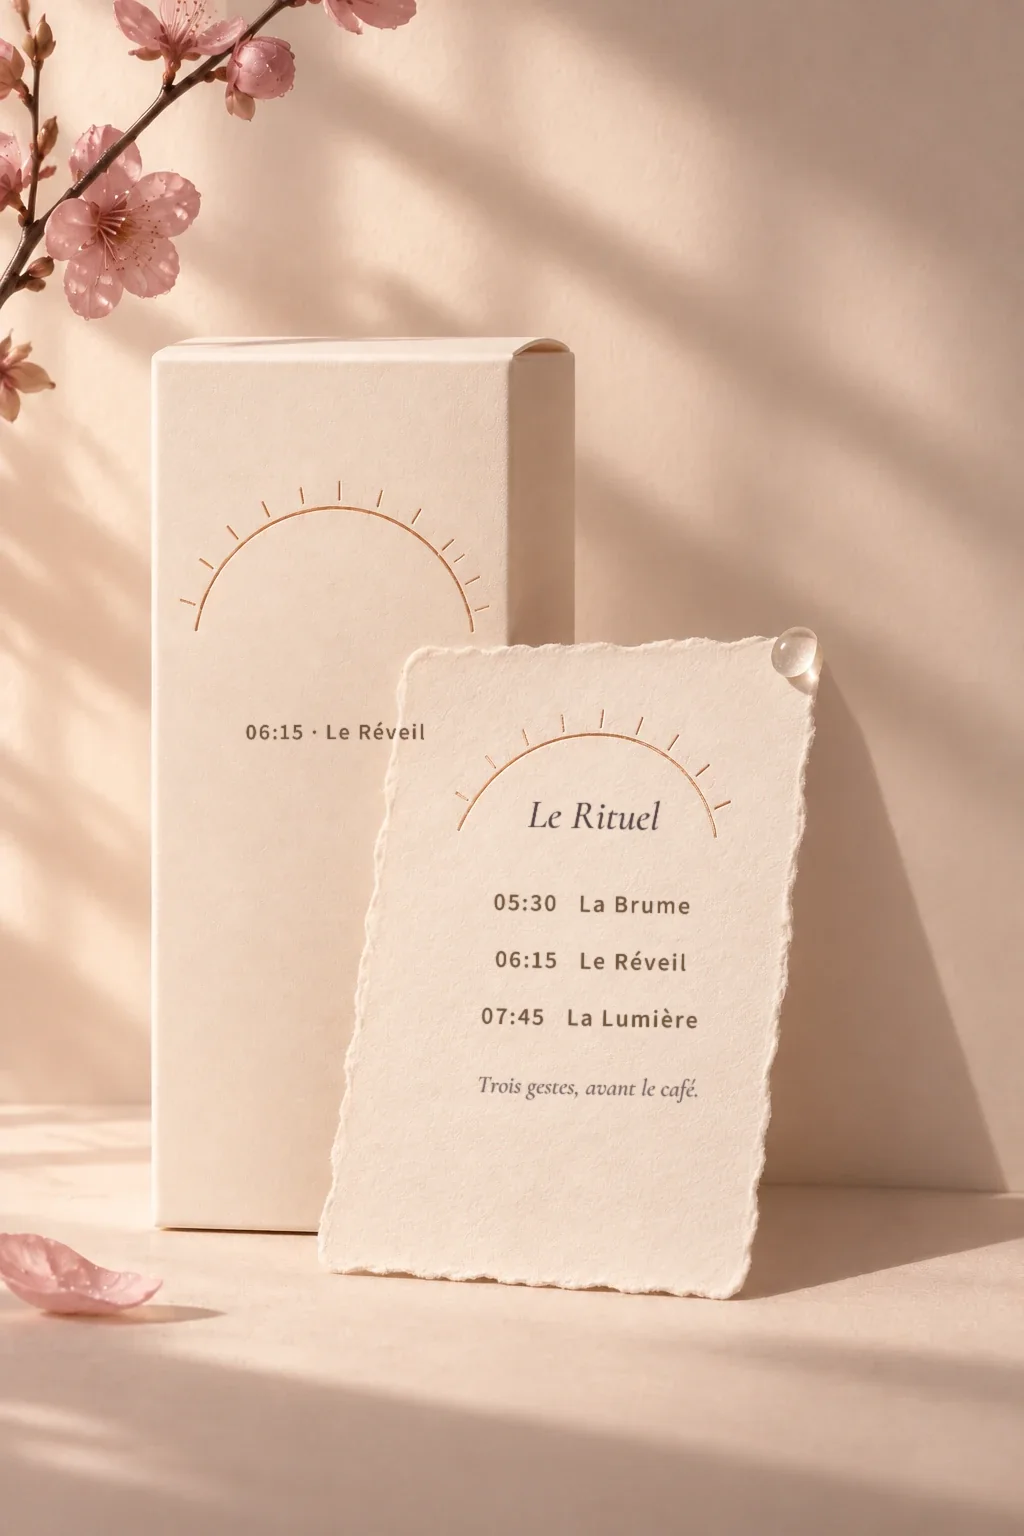
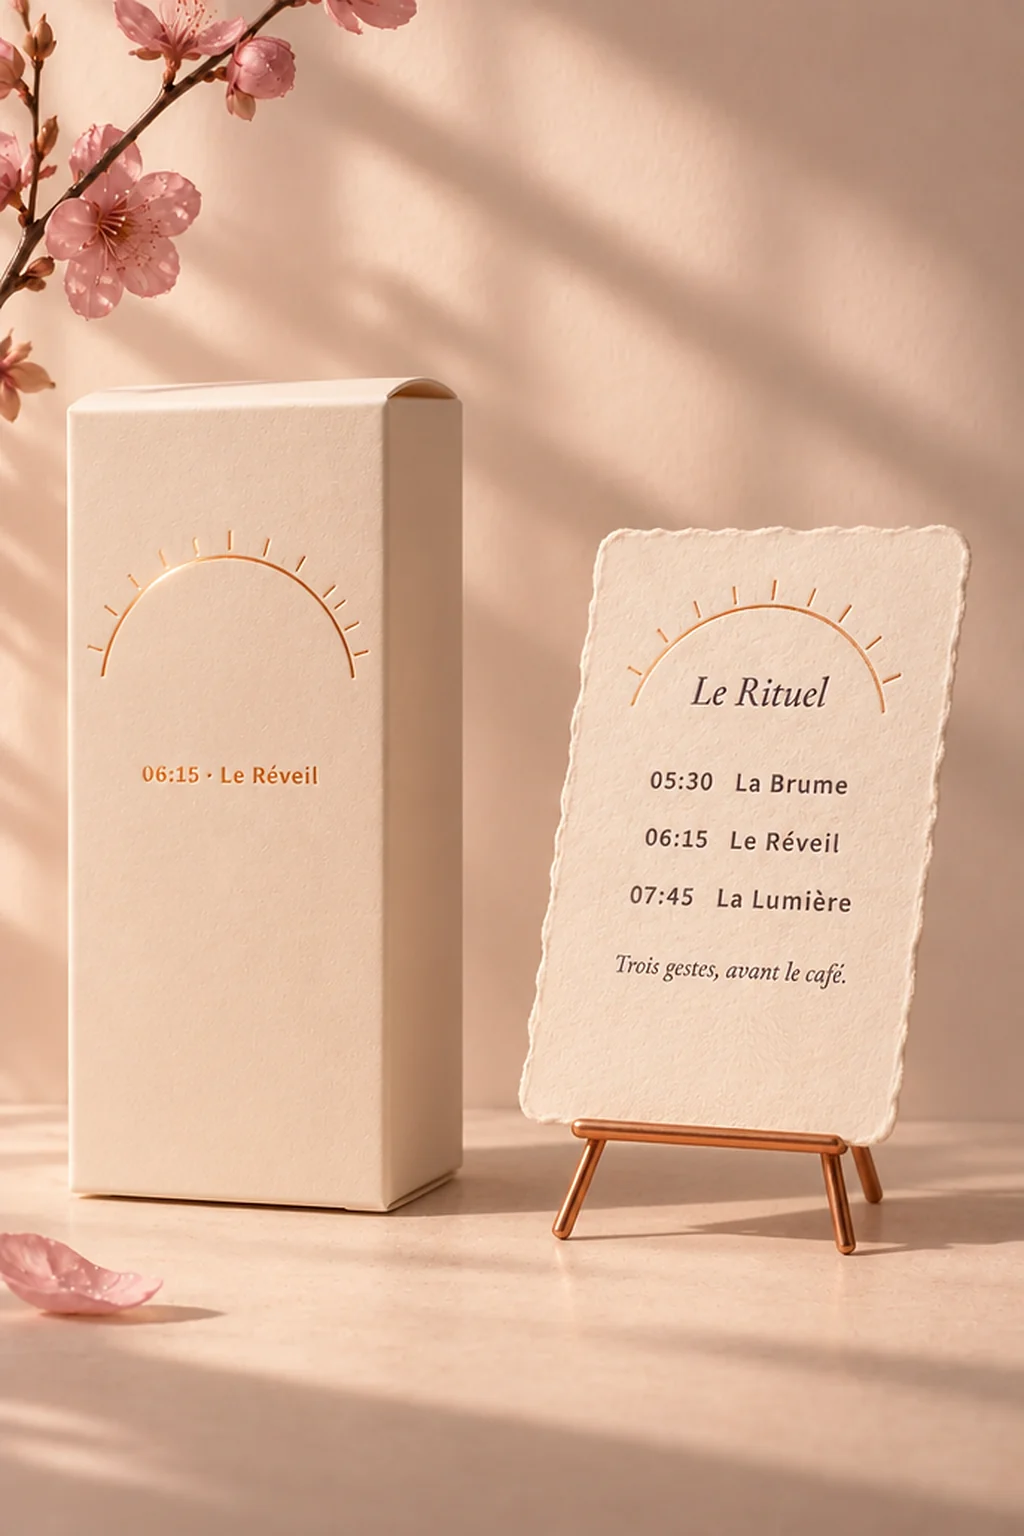
rosee: new box + ritual card photo — apart on a copper easel, the name and hours printed on them (not set over a blank image); -sans is a local retouch of the same photo so the cover test doesn't jump; veil moved to the box name

diff --git a/rosee/index.html b/rosee/index.html
@@ -962,9 +962,9 @@ document.addEventListener('DOMContentLoaded', function () {
   <div class="sn-grid" id="snGrid">
     <figure class="sn-tile">
       <div class="sn-pic">
-        <img src="assets/touchpoints/box-card.webp" width="1024" height="1536" loading="lazy" alt="קופסת סרום של ROSÉE° וכרטיס הריטואל, עם חצי שעון שחר בנחושת" style="object-position:50% 50%">
+        <img src="assets/touchpoints/box-card.webp" width="1024" height="1536" loading="lazy" alt="קופסת סרום של ROSÉE° וכרטיס הריטואל על כן נחושת לצידה, עם חצי שעון שחר בנחושת על שניהם" style="object-position:50% 50%">
         <img class="sn-off" src="assets/touchpoints/box-card-sans.webp" width="1024" height="1536" loading="lazy" alt="אותה קופסה וכרטיס בלי השם: חצי שעון השחר והשעות של הבוקר" style="object-position:50% 50%">
-        <i class="sn-veil" style="--x:33%;--y:45%;--w:30%" aria-hidden="true"></i>
+        <i class="sn-veil" style="--x:23%;--y:46%;--w:26%" aria-hidden="true"></i>
       </div>
       <figcaption><h3 lang="fr">La Boîte<span>הקופסה והכרטיס</span></h3><div class="codes"><span>שעון השחר</span><span>השעה</span><span>קו הנחושת</span></div></figcaption>
     </figure>
